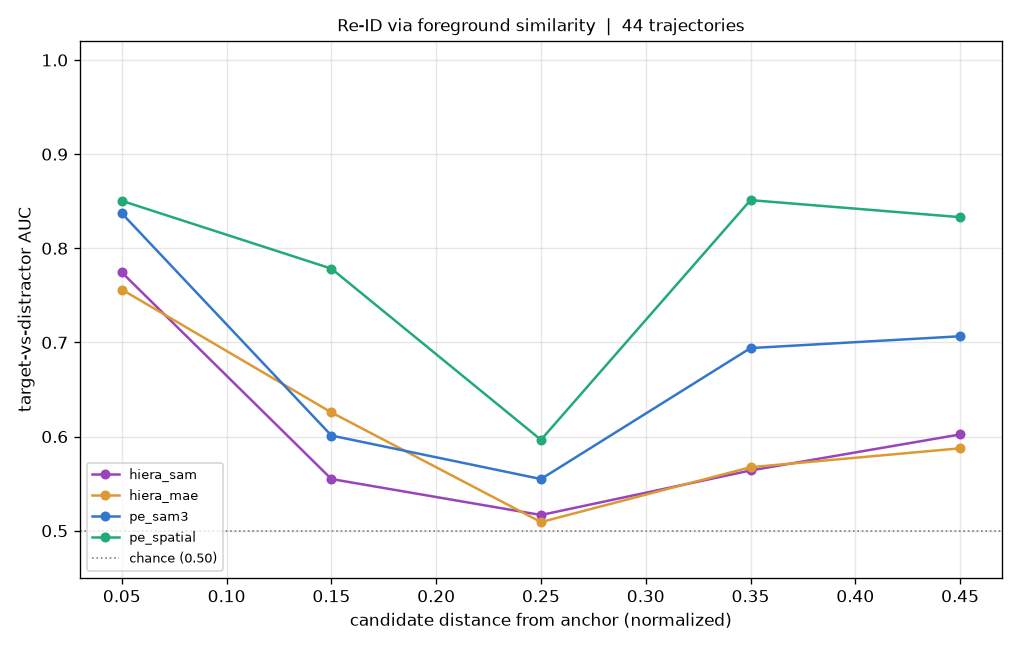
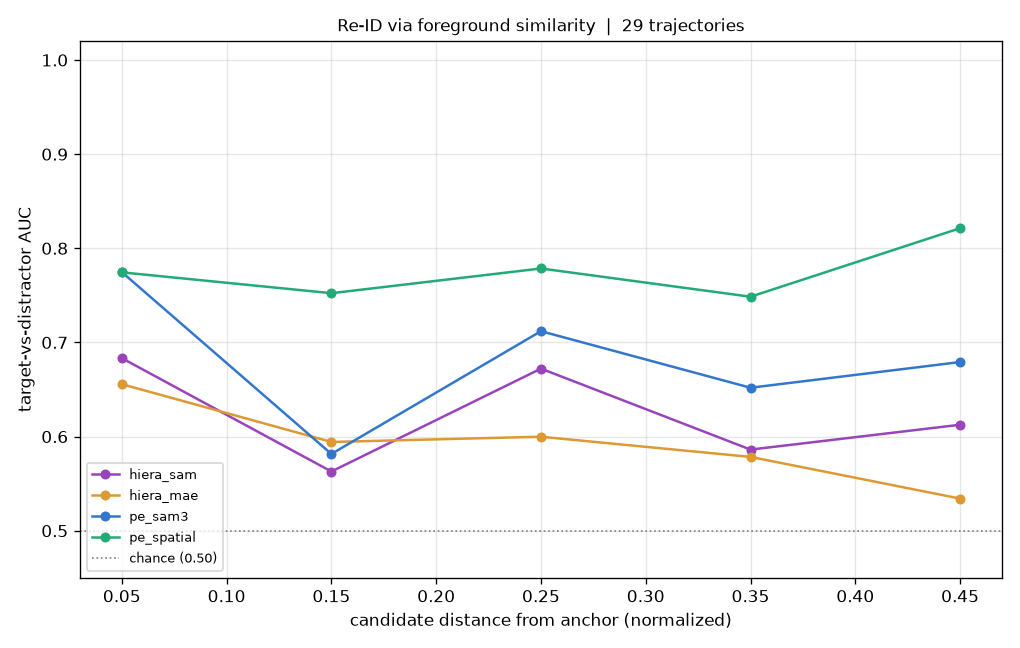
max distractor overlap

diff --git a/pe_reid_longrange.py b/pe_reid_longrange.py
@@ -132,13 +132,16 @@ def foreground_tokens(sam, backbones, frame, boxes, floor, crop_size):
 
 @torch.inference_mode()
 def chamfer_similarity(query_fg, candidate_fg):
-    """Unidirectional chamfer: mean best cosine of each candidate foreground patch to the anchor's."""
+    """Bidirectional (symmetric) chamfer: average of candidate->anchor and anchor->candidate mean best cosine."""
 
     if query_fg.shape[0] == 0 or candidate_fg.shape[0] == 0:
         return float("nan")
     query = F.normalize(query_fg, dim=-1)
     candidate = F.normalize(candidate_fg, dim=-1)
-    return float((candidate @ query.T).max(dim=1).values.mean())
+    similarity = candidate @ query.T                        # (n_candidate_patches, n_anchor_patches)
+    candidate_to_anchor = similarity.max(dim=1).values.mean()
+    anchor_to_candidate = similarity.max(dim=0).values.mean()
+    return float(0.5 * (candidate_to_anchor + anchor_to_candidate))
 
 
 def distance(a, b):
@@ -225,6 +228,23 @@ def binned_auc(samples, edges, min_bin_samples):
     return [auc(b) if len(b) >= min_bin_samples else np.nan for b in bins]
 
 
+def diagnose(results, edges):
+    """Print, per backbone and bin, the target/distractor counts and mean similarity, so the AUC shape
+    can be read off directly: a dip is either the gap collapsing (dis_sim rising to tgt_sim) or the bin
+    being target-starved (tiny n_tgt)."""
+
+    for name, samples in results.items():
+        print(f"\n{name}")
+        for lo, hi in zip(edges[:-1], edges[1:]):
+            in_bin = [s for s in samples if lo <= s[0] < hi]
+            target_sims = [s[2] for s in in_bin if s[1] == 1]
+            distractor_sims = [s[2] for s in in_bin if s[1] == 0]
+            if target_sims and distractor_sims:
+                tgt, dis = np.mean(target_sims), np.mean(distractor_sims)
+                print(f"  d[{lo:.1f},{hi:.1f}) n_tgt={len(target_sims):4d} n_dis={len(distractor_sims):5d} "
+                      f"tgt_sim={tgt:.3f} dis_sim={dis:.3f} gap={tgt - dis:+.3f}")
+
+
 def plot_auc(results, spec, edges, colors, min_bin_samples, n_traj):
     """Plot one figure spec (its backbones' AUC vs candidate distance from anchor) and save the figure and curves."""
 
@@ -298,10 +318,12 @@ def run_reid(config: DictConfig):
             plot_auc(results, spec, edges, colors, config.min_bin_samples, len(done))
         if completed % config.checkpoint_every == 0:
             save_checkpoint(config.checkpoint, results, done)
+            diagnose(results, edges)
         if DEVICE == "cuda":
             torch.cuda.empty_cache()
 
     save_checkpoint(config.checkpoint, results, done)
+    diagnose(results, edges)
 
 
 if __name__ == "__main__":
